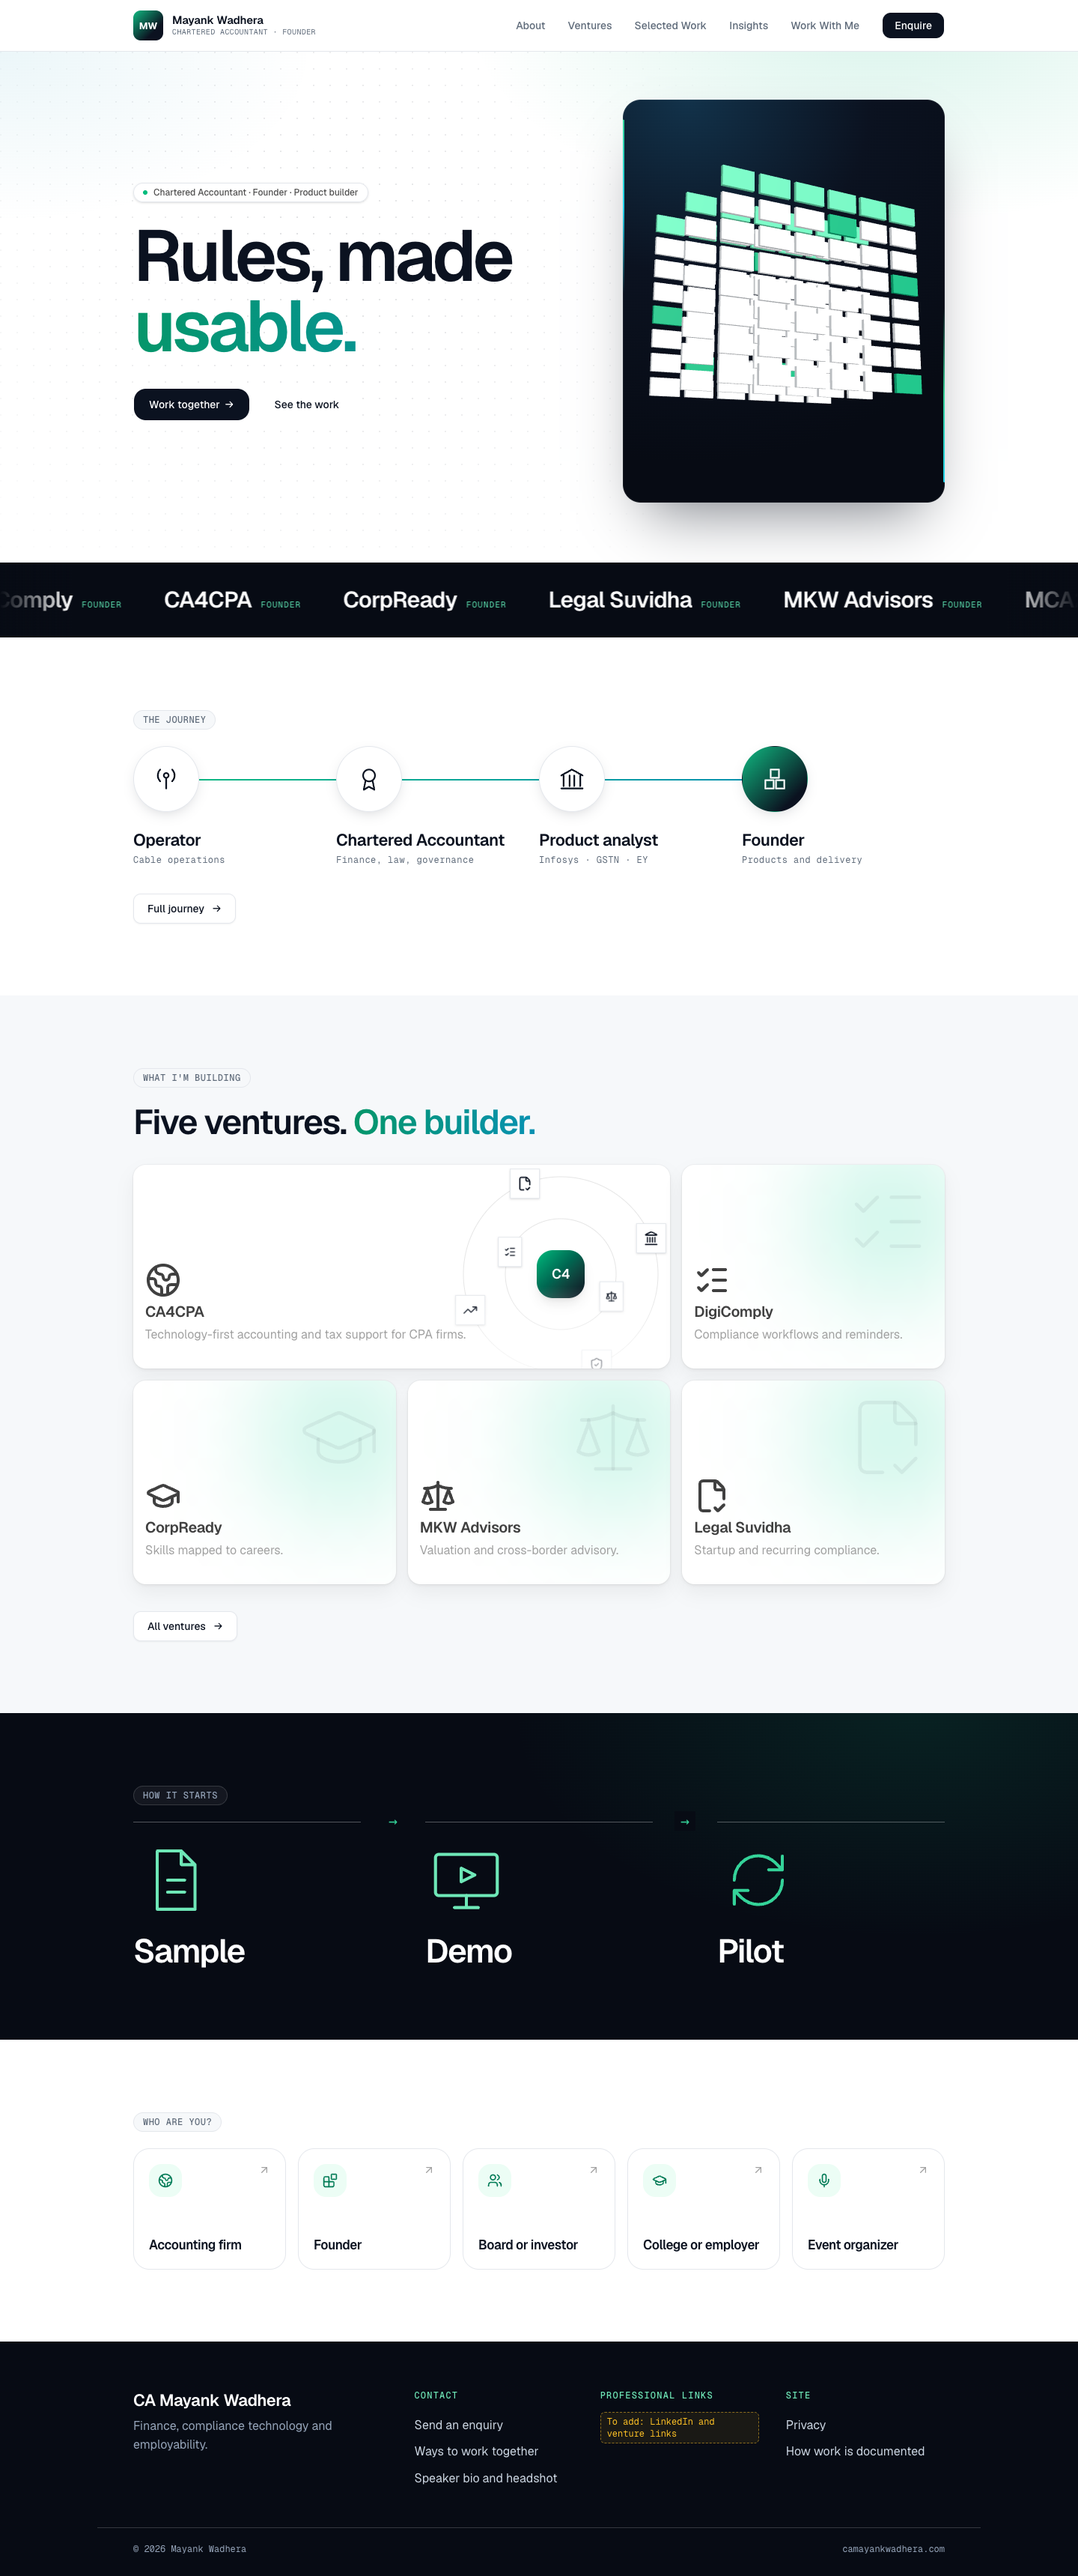
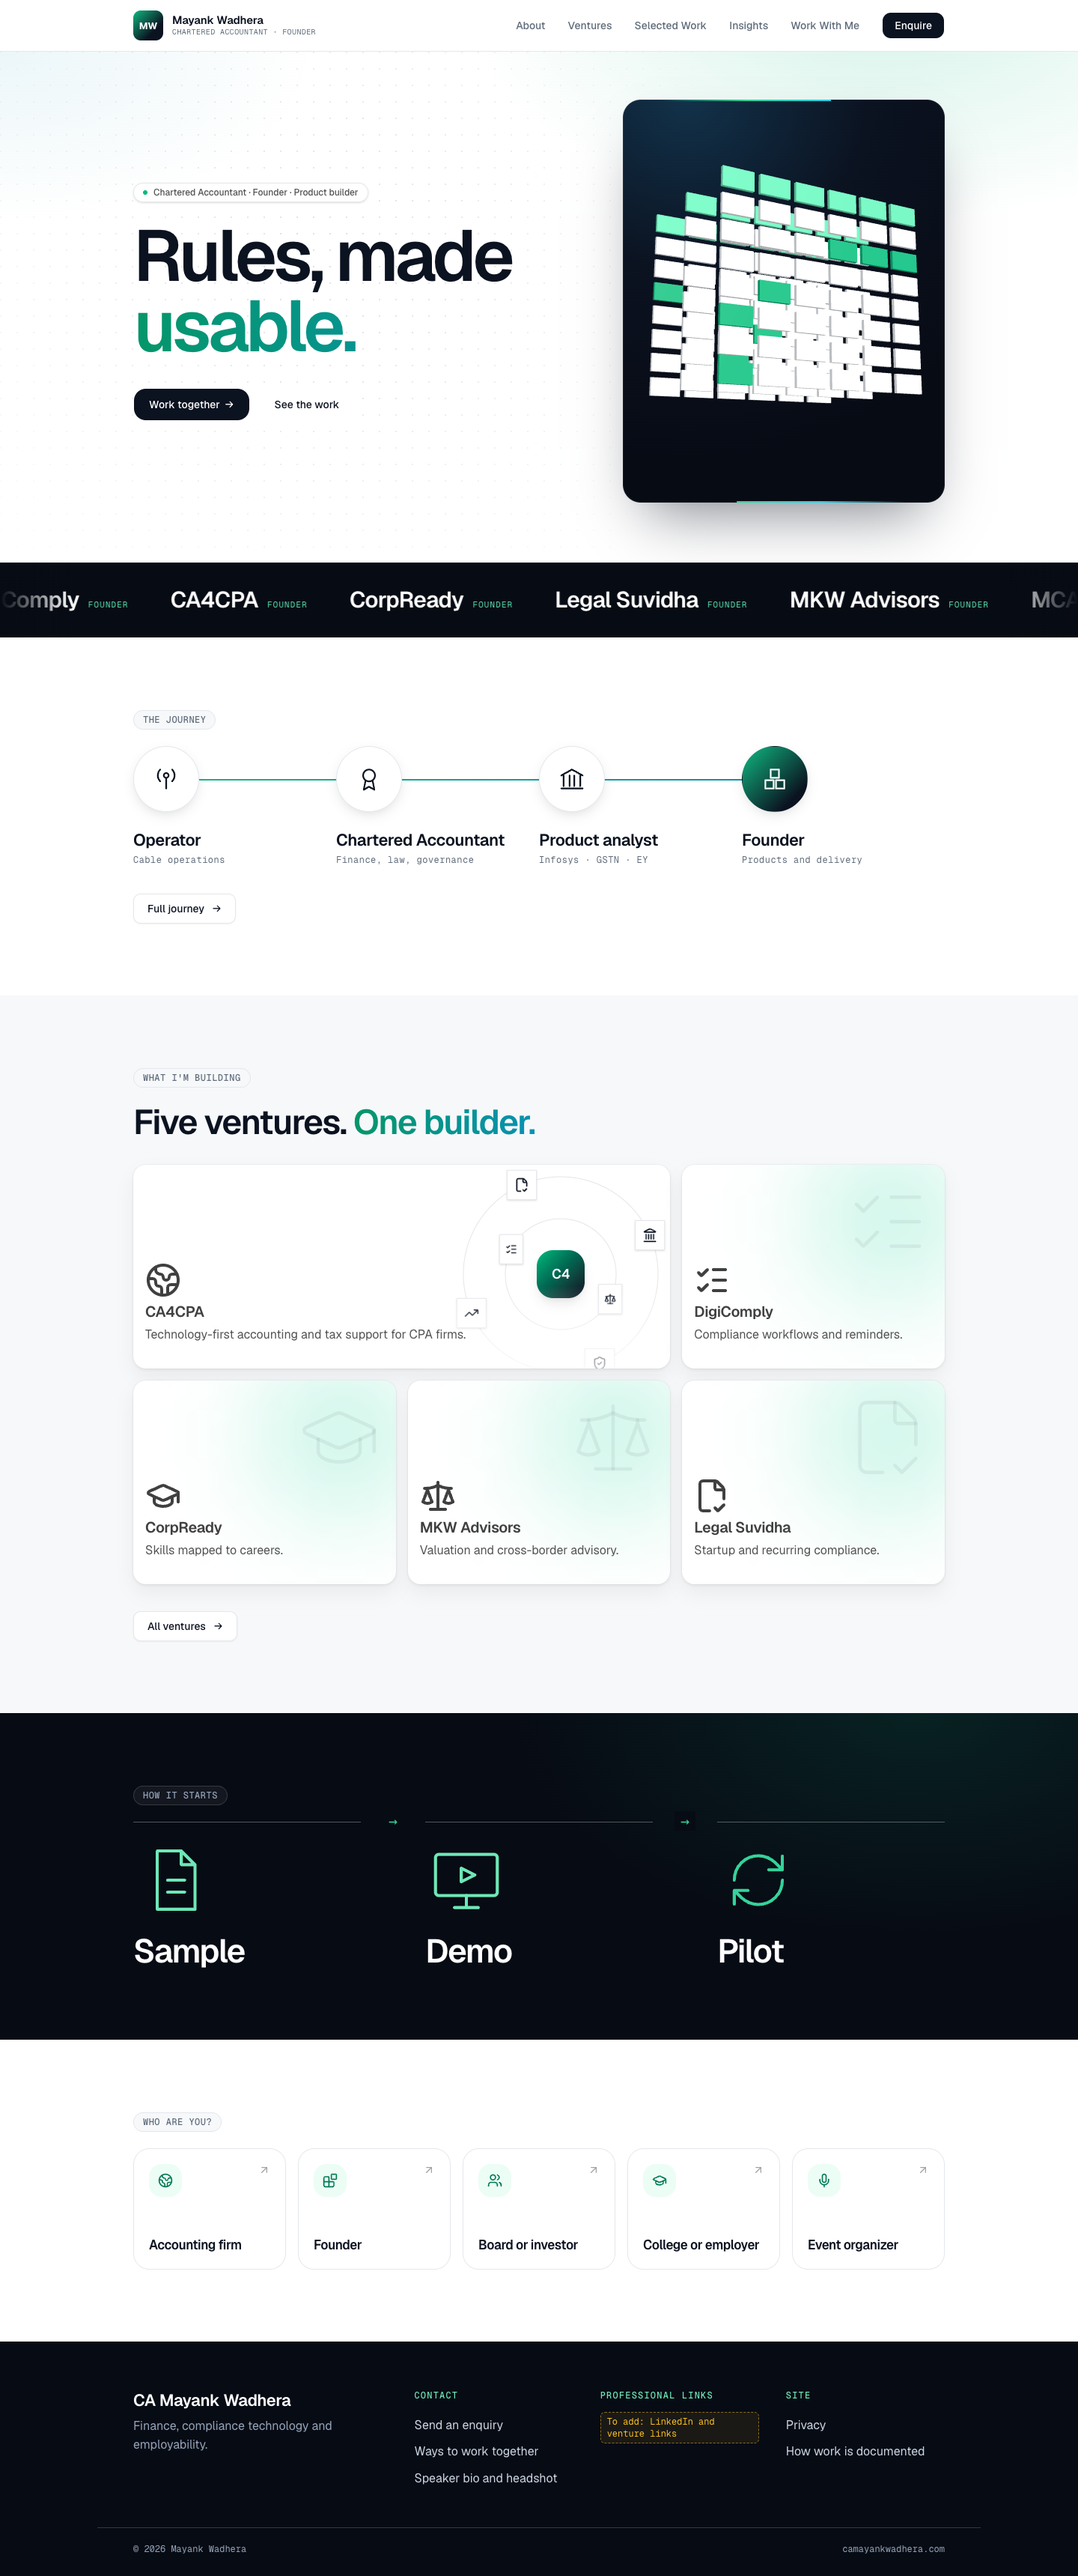
Rework CA4CPA page around the offer and evidence
Acts on an external design review:
- CA4CPA and procedures pages get their own header and navigation
- CA4CPA hero states the offer; services lead, tax platform is a separate route
- Routes and inspectable evidence moved up; qualifications moved down
- Procedures page drops the duplicated grid
- Fix unreadable button on dark sections; process steps no longer look like buttons
- Add portrait frame to About; darken venture descriptions
- Refresh screenshots

diff --git a/src/styles/global.css b/src/styles/global.css
@@ -775,4 +775,48 @@
 
   /* shared pieces for the React kit sections */
   .kit-card { border: 1px solid var(--rule); border-radius: 20px; background: #fff; }
+
+  /* ---- review fixes ---- */
+  /* buttons on dark sections stay readable */
+  .section.dark .btn { background: rgba(255, 255, 255, .06); color: #fff; border-color: rgba(255, 255, 255, .22); box-shadow: none; }
+  .section.dark .btn:hover { background: rgba(255, 255, 255, .14); color: #fff; }
+  .section.dark .btn.solid { background: #fff; color: var(--ink); border-color: #fff; }
+  .section.dark .btn.solid:hover { background: #d1fae5; color: var(--ink); border-color: #d1fae5; }
+
+  /* process steps read as a sequence, not as buttons */
+  .steps, .steps.big { gap: 6px 14px; font: 500 14px/1.3 var(--body); }
+  .steps span, .steps.big span, .steps span:last-child { background: none; border: 0; padding: 0; border-radius: 0; color: inherit; display: inline-flex; align-items: center; gap: 8px; }
+  .steps span::before { content: ""; width: 8px; height: 8px; border-radius: 50%; border: 2px solid #34d399; flex: none; }
+  .steps span:last-child { font-weight: 600; }
+  .steps span:last-child::before { background: #34d399; }
+  .steps span:not(:last-child)::after { content: "→"; margin-left: 6px; color: #94a3b8; }
+  .lane .steps { color: #e2e8f0; }
+  .tile .steps { color: var(--ink-soft); }
+
+  .portrait-small { max-width: 340px; justify-self: end; width: 100%; }
+  .strip-label { background: var(--green-deep); color: #94a3b8; font: 500 11px var(--mono); letter-spacing: .12em; text-transform: uppercase; padding: 22px 0 0; }
+  .strip-label + .proof-strip .proof-row a { padding-top: 18px; }
+  .seal small { display: block; margin-top: 6px; font: 400 12px/1.2 var(--body); letter-spacing: 0; color: var(--ink-soft); }
+  .hero-sub { margin-top: 20px; max-width: 46ch; font-size: clamp(17px, 1.5vw, 20px); color: var(--ink-soft); }
+  .text-route { display: inline-flex; gap: 8px; margin-top: 22px; font: 500 14px var(--body); color: var(--brand); text-decoration: none; border-bottom: 1px solid currentColor; padding-bottom: 2px; }
+  .text-route::after { content: "→"; }
+
+  /* illustrated close pack in the CA4CPA hero */
+  .pack-stage { margin: 0; perspective: 1400px; display: grid; gap: 14px; justify-items: start; }
+  .pack { position: relative; width: 100%; font-size: 15px; max-width: 520px; justify-self: center; background: #fff; border: 1px solid var(--rule); border-radius: 22px; padding: 28px; display: grid; gap: 18px; transform: rotateY(-10deg) rotateX(5deg); box-shadow: 0 50px 90px -40px rgba(11, 18, 32, .45), 0 2px 4px rgba(11, 18, 32, .06); }
+  .pack header { display: flex; justify-content: space-between; align-items: center; padding-bottom: 14px; border-bottom: 1px solid var(--rule); }
+  .pack header strong { font: 600 18px var(--body); letter-spacing: -.02em; }
+  .pack header span { font: 500 11px var(--mono); text-transform: uppercase; letter-spacing: .08em; color: #047857; background: #ecfdf5; padding: 5px 9px; border-radius: 999px; }
+  .pack-row { display: grid; grid-template-columns: minmax(0, 1.1fr) minmax(0, 1fr) 14px; align-items: center; gap: 12px; }
+  .pack-label { font: 500 15px var(--body); color: var(--ink); }
+  .pack-bar { height: 8px; border-radius: 4px; background: #f1f5f9; overflow: hidden; }
+  .pack-bar i { display: block; height: 100%; border-radius: 4px; background: linear-gradient(90deg, #10b981, #0891b2); }
+  .pack-row em { width: 12px; height: 12px; border-radius: 50%; }
+  .pack-row em.ok { background: #10b981; box-shadow: 0 0 0 4px rgba(16, 185, 129, .18); }
+  .pack-row em.open { background: #f59e0b; box-shadow: 0 0 0 4px rgba(245, 158, 11, .18); }
+  .pack footer { display: flex; gap: 8px; padding-top: 14px; border-top: 1px solid var(--rule); }
+  .pack footer span { font: 500 11px var(--mono); padding: 6px 10px; border-radius: 8px; background: #f1f5f9; color: var(--ink-soft); }
+  .pack footer .next { background: var(--ink); color: #fff; margin-left: auto; }
+  .pack-stage figcaption { justify-self: center; }
+  @media (max-width: 820px) { .pack { transform: none; } }
 }

diff --git a/src/scripts/enquiry.js b/src/scripts/enquiry.js
@@ -1,6 +1,6 @@
 // Enquiry form: preselect the audience from ?audience=, and show where the enquiry will be routed.
 const ROUTES = {
-  "accounting-us": { to: "CA4CPA", next: "A sample month, then a scope call" },
+  "accounting-us": { to: "CA4CPA", next: "A sample close pack, then a scope call" },
   "accounting-intl": { to: "CA4CPA KPO Solutions", next: "Sample output, then a scope call" },
   "founder-compliance": { to: "Legal Suvidha", next: "Compliance enquiry" },
   "founder-software": { to: "DigiComply", next: "Product walkthrough" },

diff --git a/src/components/ui/bento-grid.tsx b/src/components/ui/bento-grid.tsx
@@ -62,7 +62,7 @@ const BentoCard = ({
         <h3 className="text-xl font-semibold text-neutral-700 dark:text-neutral-300">
           {name}
         </h3>
-        <p className="max-w-lg text-neutral-400">{description}</p>
+        <p className="max-w-lg text-neutral-600 dark:text-neutral-400">{description}</p>
       </div>
 
       <div
